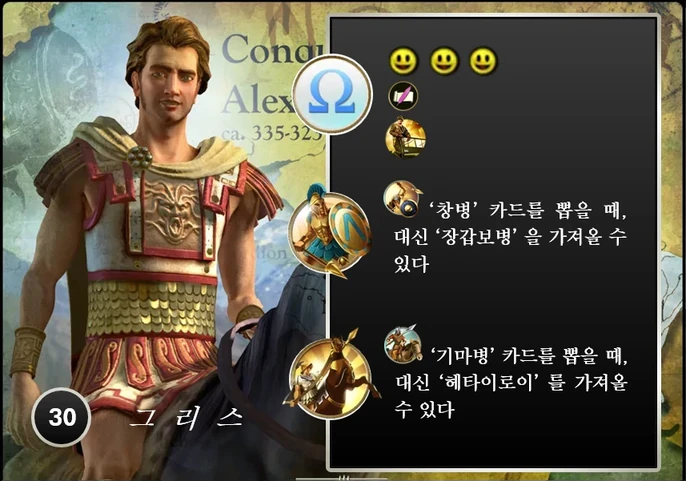
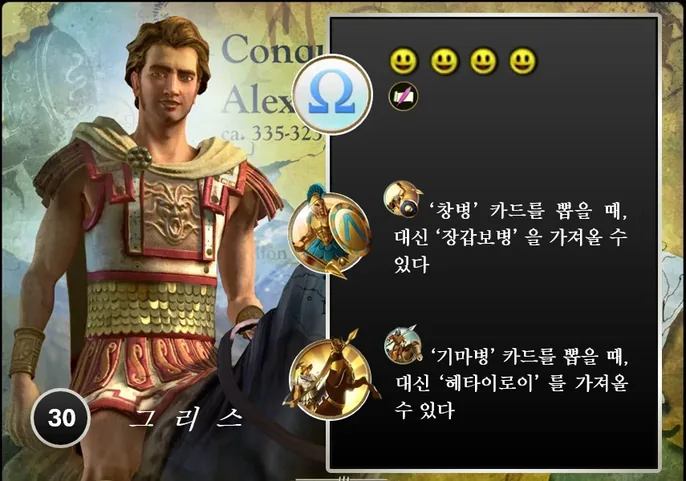
그리스 새 카드 반영: 시작 행복 3 → 4, 시작 장군 삭제 (사용자 결정 #64)
- civs.json, rules.md, 테스트 갱신, 게임 안 그리스 카드 그림 교체

Claude-Session: https://claude.ai/code/session_01LEwiRiXRJPjckZxHM1aEbm

diff --git a/src/engine/__tests__/stage3.test.ts b/src/engine/__tests__/stage3.test.ts
@@ -1359,13 +1359,14 @@ describe('문명 능력 (전쟁·군사 관련)', () => {
     expect(() => apply(s, { type: 'endProduction' })).not.toThrow()
   })
 
-  it('독일·중국·줄루·몽골·훈족·덴마크·그리스는 위대한 장군 1개로 시작 (독일의 무료 카드는 그 시점에 만들 카드가 없어 받지 못한다)', () => {
-    for (const civ of ['germany', 'china', 'zulu', 'mongolia', 'huns', 'denmark', 'greece']) {
+  it('독일·중국·줄루·몽골·훈족·덴마크는 위대한 장군 1개로 시작 (독일의 무료 카드는 그 시점에 만들 카드가 없어 받지 못한다), 그리스는 새 카드에서 장군이 빠짐', () => {
+    for (const civ of ['germany', 'china', 'zulu', 'mongolia', 'huns', 'denmark']) {
       const s = found(startGame([civ], [hand4()]))
       expect(me(s).generals, civ).toBe(1)
       expect(me(s).pendingFreeCards, civ).toBe(0)
     }
     expect(me(found(startGame(['korea'], [hand4()]))).generals).toBe(0)
+    expect(me(found(startGame(['greece'], [hand4()]))).generals).toBe(0) // 사용자 결정 #64
   })
 
   it('독일: 장군을 얻는 그 시점에 만들 수 있는 카드가 없으면 무료 카드를 받지 못한다', () => {

diff --git a/src/engine/game.ts b/src/engine/game.ts
@@ -414,7 +414,7 @@ function buildCity(
   // 시작 문화 보너스: 첫 도시를 4장으로 세운 뒤에 받는다 (그만큼 타일을 뽑아 붙임)
   const startCulture = civById(p.civId).startCulture
   if (startCulture) gainCulture(s, p, startCulture)
-  // 문명 카드에 장군 그림이 있으면 위대한 장군을 받고 시작한다 (독일·중국·줄루·몽골·훈족).
+  // 문명 카드에 장군 그림이 있으면 위대한 장군을 받고 시작한다 (독일·중국·덴마크·줄루·몽골·훈족).
   // 독일의 무료 군사 카드도 붙지만, 그 시점에 생산가능한 카드가 없으므로 받지 못한다
   const startGenerals = civById(p.civId).startGenerals ?? 0
   if (startGenerals) gainGeneral(s, p, startGenerals)

diff --git a/docs/open-questions.md b/docs/open-questions.md
@@ -68,6 +68,7 @@
 | 61 | 맡아두기와 나침반 | 사용자 결정: 정찰한 타일 맡아두기는 **게임 시작부터** 할 수 있다 (예전에는 나침반 효과). 나침반의 새 효과: **정찰할 때 2장을 보고 그중 1장을 맡아둘 수 있다** (카드 문구: "정찰 시 카드를 2장 볼 수 있게 된다 (타일 맡아 두기는 그 중 1장만 할 수 있다)") (나머지는 덱에 돌려넣고 섞음, 맡아두기는 그대로 1장까지, 일꾼은 1개만 묶임). 게임 안 나침반 기술 카드 그림도 사용자가 준 새 카드로 교체함. AI는 나침반을 서두르지 않고, 2장 중 맡아두기에 더 좋은 타일을 고른다 |
 | 62 | 아라비아 능력 | 사용자 결정: 석유·오아시스 타일 식량 +1 → **+2**. 400판(아라비아 주인공, 3·4·5인): 18.5% → 27.3% (기대 26.1%). 석유 타일 대부분이 식량 1짜리라 +2면 식량 3이 된다. 아라비아 문명 카드 그림도 +2로 바꾼 새 카드로 교체함 |
 | 63 | 첫 도시 시작 타일 수 | 사용자 결정: 첫 도시는 모든 문명이 공평하게 **시작 타일 4장 안에서** 고른다. 시작 문화 보너스(프랑스·페르시아·그리스·훈족·몽골), 시작 손의 엘도라도 처음 발견 문화, 킬리만자로·엘도라도 영토 문화는 모두 도시를 세운 뒤에 받아 그만큼 타일을 붙인다 (예전: 시작 문화·엘도라도 발견만큼 손에 더 받아 5~6장 중에서 도시를 골랐음). 규칙서 게임 준비 5단계는 "시작 보너스가 있는 문명은 해당 보너스를 가져옵니다", "처음 얻는 문화 타일" → "이후 처음 얻는 타일" |
+| 64 | 그리스 카드 | 사용자 결정(새 카드): 그리스 시작 행복 3 → **4**, 시작 장군 1 **삭제** (시작 문화 1·고유 유닛 2장은 그대로). 게임 안 그리스 문명 카드 그림도 새 카드로 교체 |
 
 ## 공개 범위 (설계 결정)
 - 공개: 타일·기술·정책·불가사의·군사 카드 **장수**, 로그에 남는 "무엇을 생산·승급했는지".

diff --git a/docs/rules.md b/docs/rules.md
@@ -796,9 +796,9 @@
                                         얻을 때마다 문화  (머스킷병, 망치
                                         1                 1 더)
 
-  그리스     30        3      문화 1,   고유 유닛 2장     장갑보병 (창병),
-                              장군 1                      헤타이로이
-                              (시작)                      (기마병)
+  그리스     30        4      문화 1    고유 유닛 2장     장갑보병 (창병),
+                              (시작)                      헤타이로이
+                                                          (기마병)
 
   일본       25        4      식량1     물고기 타일을     사무라이
                                         얻을 때마다 문화  (장검사)
